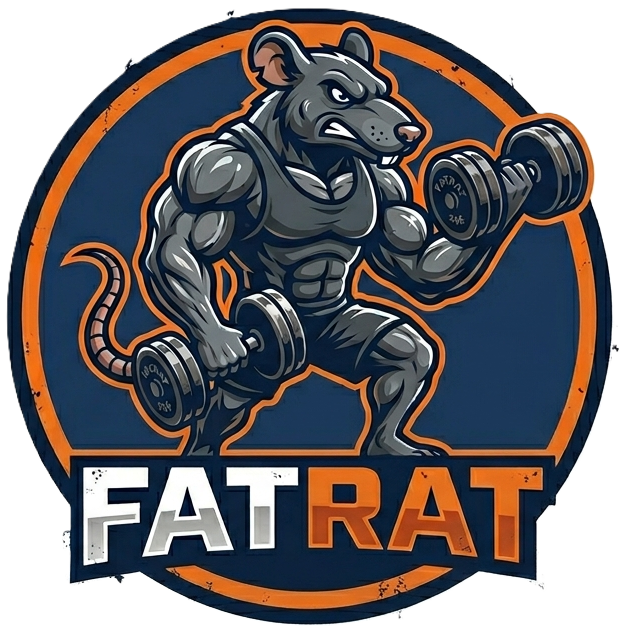
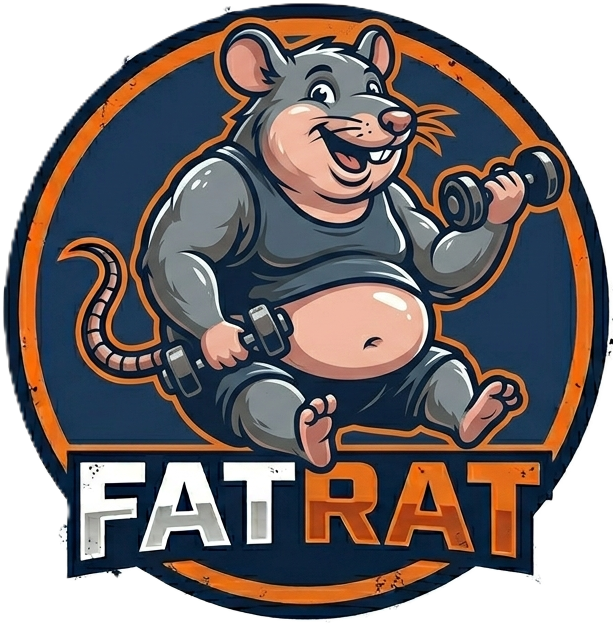
v0.58.0 — swap to fatrat-logo2 + add rat mascot to header

diff --git a/app/components/app/AppShell.tsx b/app/components/app/AppShell.tsx
@@ -11,8 +11,8 @@ import { APP_VERSION } from '@/lib/version';
 import type { ReactNode } from 'react';
 
 /**
- * Wraps every authenticated route. Provides the top bar (logo + theme toggle +
- * demo-user picker or sign-out) and the bottom nav.
+ * Wraps every authenticated route. Provides the top bar (rat mascot + logo +
+ * theme toggle + demo-user picker or sign-out) and the bottom nav.
  *
  * In Firebase mode the DemoUserPicker is replaced with a sign-out button, and
  * the shell redirects unauthenticated visitors to /login. Visitors who are
@@ -27,7 +27,6 @@ export function AppShell({ children }: { children: ReactNode }) {
   const { firebaseUser, user, loading, signOut } = useUser();
   const firebase = isFirebaseEnabled();
 
-  // Auth gate — only meaningful when Firebase is wired up.
   useEffect(() => {
     if (!firebase) return;
     if (loading) return;
@@ -35,7 +34,6 @@ export function AppShell({ children }: { children: ReactNode }) {
       router.replace('/login');
       return;
     }
-    // Signed in but no profile yet — send them to finish setup.
     if (!user && pathname !== '/onboarding') {
       router.replace('/onboarding');
     }
@@ -46,7 +44,6 @@ export function AppShell({ children }: { children: ReactNode }) {
     router.replace('/login');
   };
 
-  // In Firebase mode, don't flash protected content before the redirect resolves.
   if (firebase && (loading || !firebaseUser)) {
     return <div className="min-h-screen bg-bg" />;
   }
@@ -55,11 +52,21 @@ export function AppShell({ children }: { children: ReactNode }) {
     <div className="min-h-screen bg-bg">
       <header className="sticky top-0 z-10 bg-bg/95 backdrop-blur border-b border-ink-line">
         <div className="mx-auto max-w-md flex items-center justify-between px-4 h-12">
-          <div className="flex flex-col leading-none">
-            <div className="font-semibold tracking-widest2 text-base">
-              FAT<span className="text-accent">RAT</span>
+          {/* Rat mascot + FATRAT wordmark + version, stacked text alongside the image */}
+          <div className="flex items-center gap-2 leading-none">
+            {/* eslint-disable-next-line @next/next/no-img-element */}
+            <img
+              src="/fatrat-rat.png"
+              alt=""
+              aria-hidden="true"
+              className="h-9 w-9 object-contain shrink-0"
+            />
+            <div className="flex flex-col leading-none">
+              <div className="font-semibold tracking-widest2 text-base">
+                FAT<span className="text-accent">RAT</span>
+              </div>
+              <div className="font-mono text-[10px] text-ink-mute mt-0.5">v{APP_VERSION}</div>
             </div>
-            <div className="font-mono text-[10px] text-ink-mute mt-0.5">v{APP_VERSION}</div>
           </div>
           <div className="flex items-center gap-2">
             <ThemeToggle />

diff --git a/app/app/login/page.tsx b/app/app/login/page.tsx
@@ -62,7 +62,7 @@ export default function LoginPage() {
         {/* Logo — wordmark is baked into the mark itself. */}
         {/* eslint-disable-next-line @next/next/no-img-element */}
         <img
-          src="/fatrat-logo.png"
+          src="/fatrat-logo2.png"
           alt="FATRAT"
           width={180}
           height={180}

diff --git a/app/lib/version.ts b/app/lib/version.ts
@@ -9,4 +9,4 @@
  *   - MINOR (0.x.0) — a new feature or screen
  *   - MAJOR (x.0.0) — a major overhaul / finished release
  */
-export const APP_VERSION = '0.57.5';
+export const APP_VERSION = '0.58.0';

diff --git a/app/CHANGELOG.md b/app/CHANGELOG.md
@@ -8,6 +8,19 @@ finished release.
 The current version also lives in `lib/version.ts` (`APP_VERSION`) and
 in `package.json`; all three are kept in sync on every change.
 
+## v0.58.0 — 2026-05-26
+
+- Brand refresh.
+- /fatrat-logo2.png replaces /fatrat-logo.png as the canonical mark — used
+  on the login screen, in the PWA manifest, and as the favicon /
+  apple-touch icon (app/icon.png and app/apple-icon.png refreshed from the
+  new file). The original /fatrat-logo.png stays in /public so older
+  bookmarks / cached references don't 404.
+- AppShell header gains the bare rat illustration (/fatrat-rat.png) to the
+  left of the FATRAT wordmark + version, sized h-9 so it spans the height
+  of both lines of text. Marked aria-hidden — purely decorative; the
+  wordmark next to it is the accessible label.
+
 ## v0.57.5 — 2026-05-26
 
 - SingleWorkoutWizard step 1 (Workout): equipment multi-select filter under